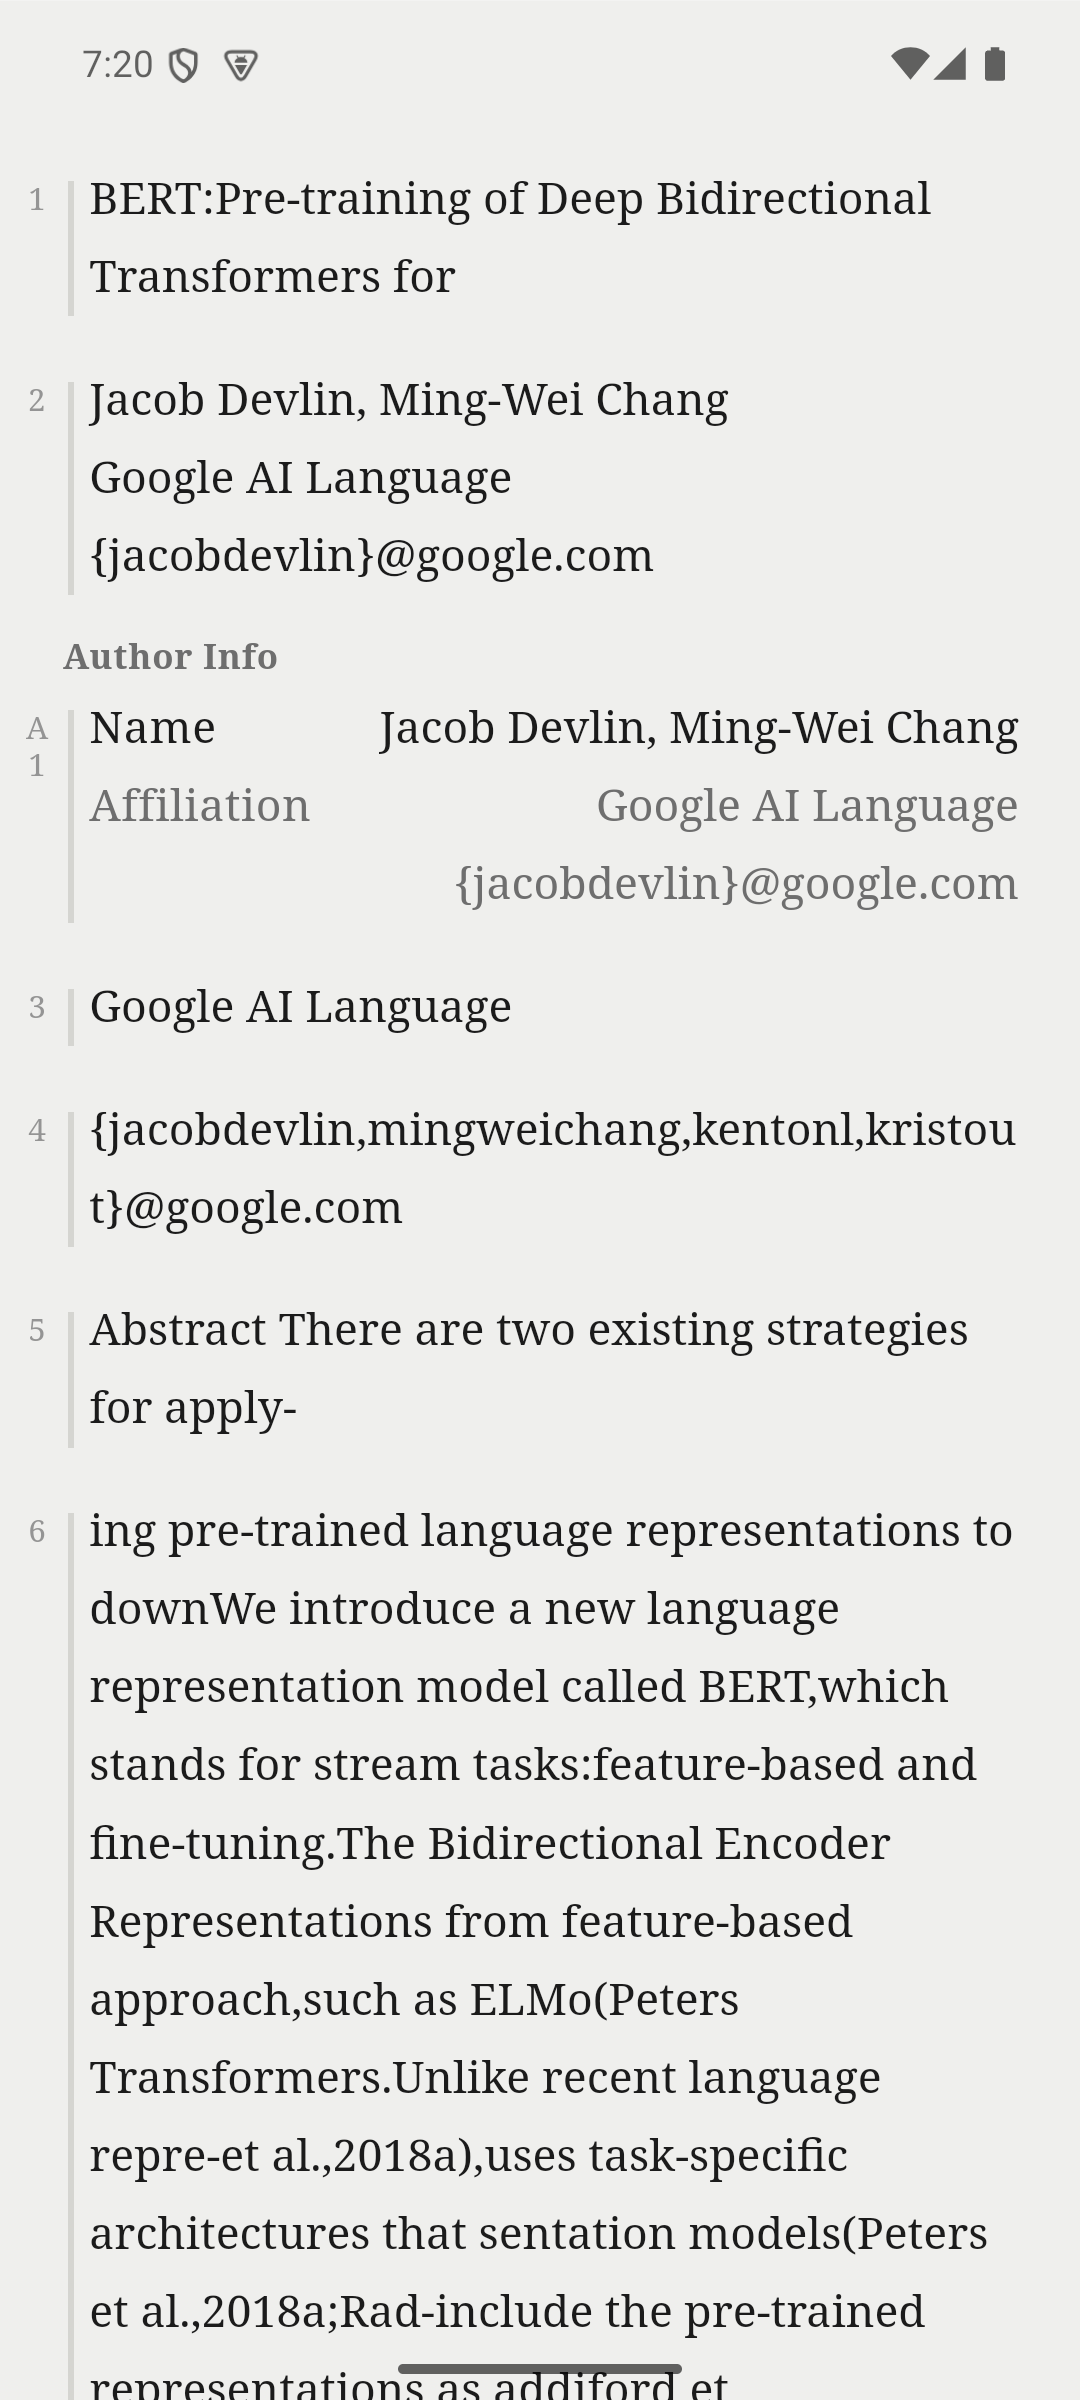
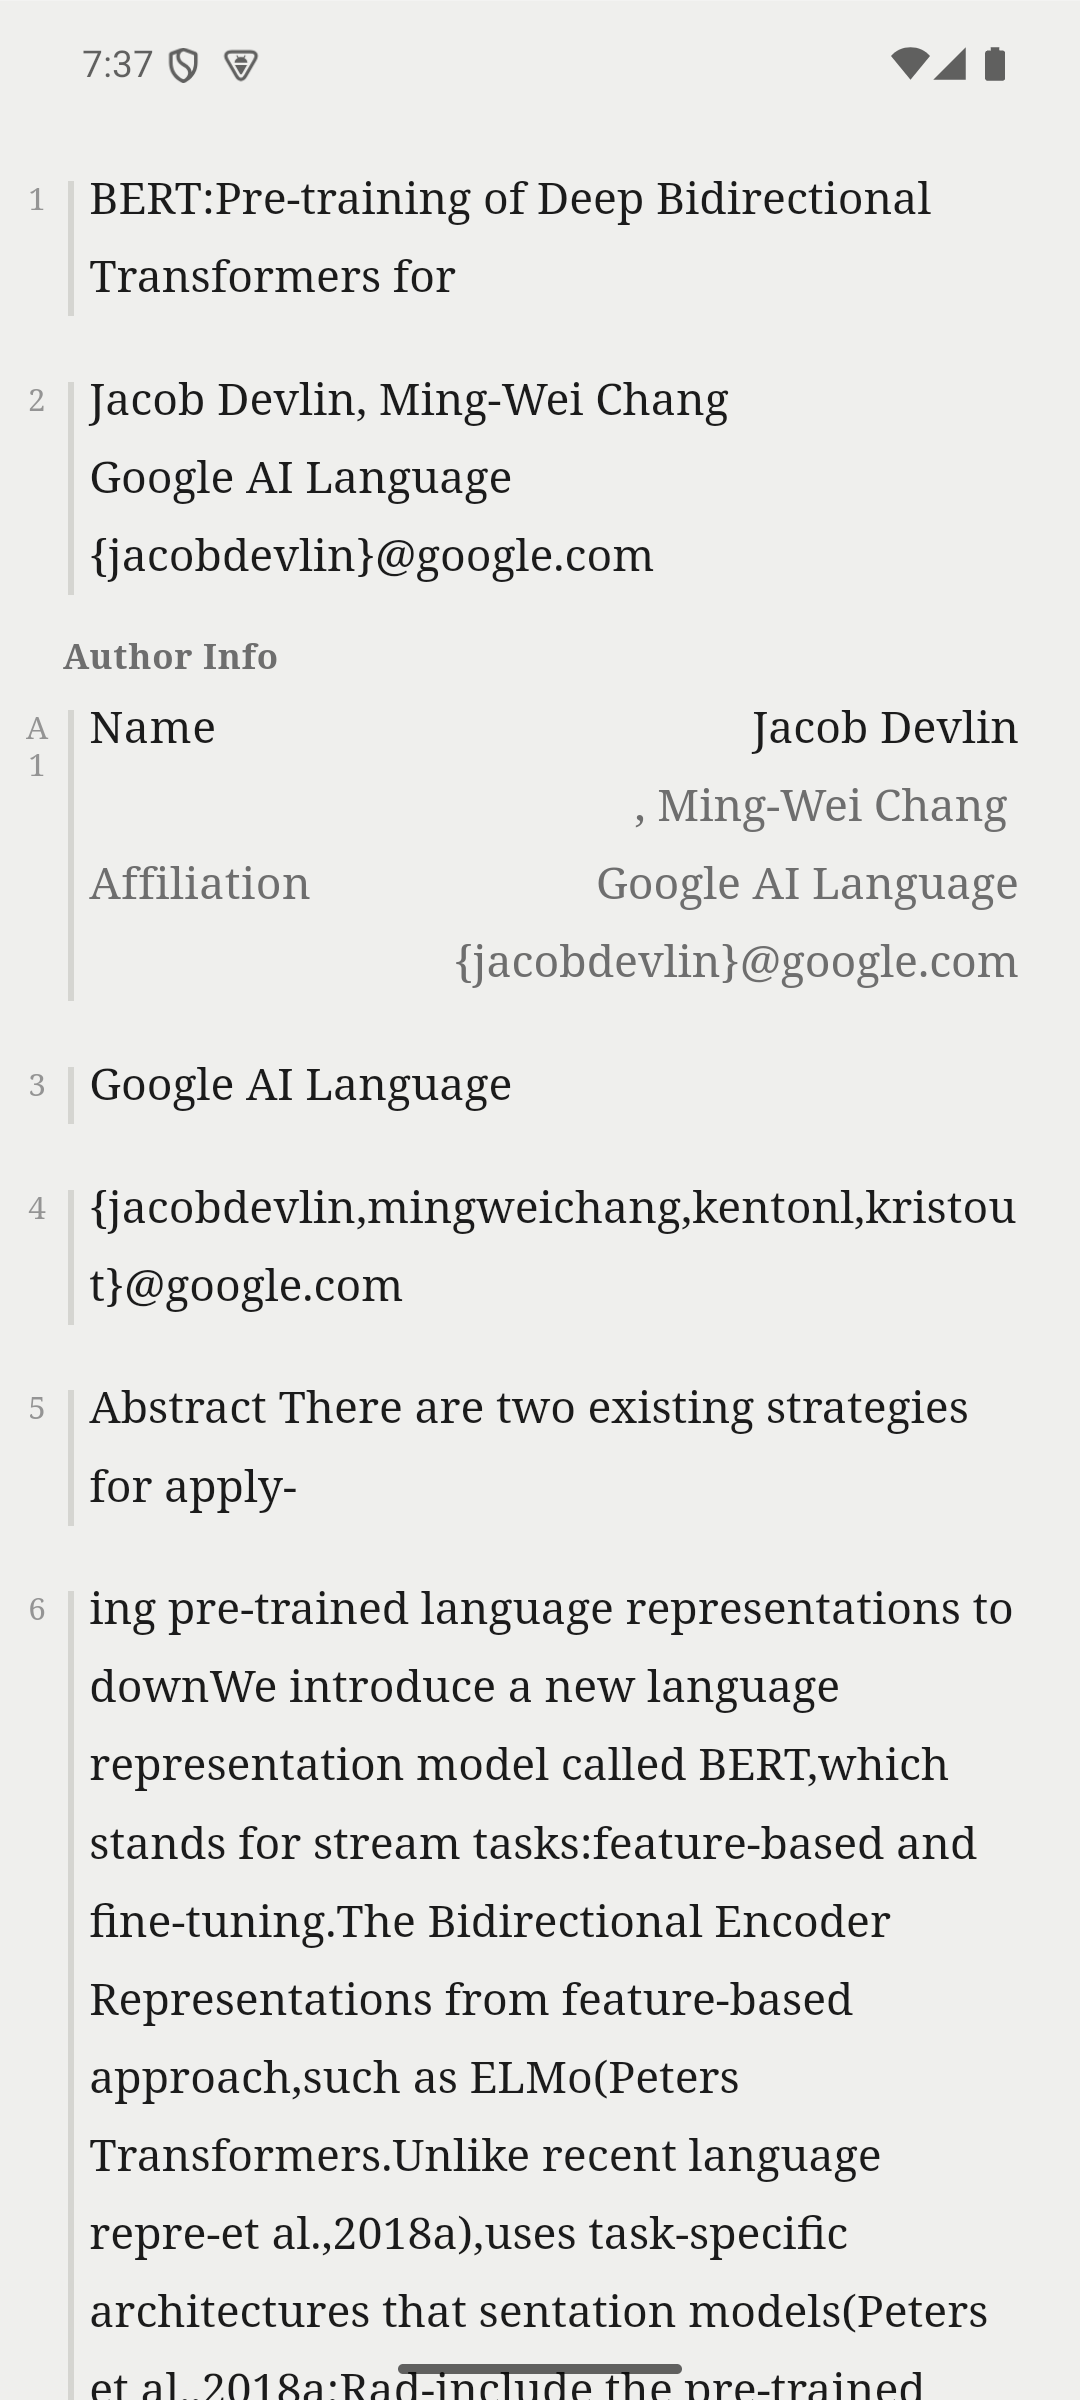
fix: skip UI text in block offsets so 2nd sub-label works; make labels unselectable (v0.1.89)

diff --git a/app/src/main/assets/www/reader.js b/app/src/main/assets/www/reader.js
@@ -2073,9 +2073,7 @@
         }
         if (!segs.length) return null;
 
-        /*
-          ③ 累加：从该块第一段开始，到目标节点之前的所有正文文字。
-        */
+        /* ③ 累加：从该块第一段开始，到目标节点之前的所有正文文字。 */
         var total = 0;
 
         for (var s = 0; s < segs.length; s++) {
@@ -2098,7 +2096,7 @@
                     var r = document.createRange();
                     r.setStart(p, 0);
                     r.setEnd(node, 0);
-                    total += String(r).length;
+                    total += textLenOf(r);
                 } catch (e) {
                     /* 兜底：按纯文本长度算到段首 */
                     total += 0;
@@ -2106,10 +2104,108 @@
                 return { line: line, offset: total };
             }
 
-            total += (p.textContent || '').length;
+            total += textLenOf(p);
         }
 
         return null;
+    }
+
+    /**
+     * 求一个节点（或 Range）里**属于原文**的字符数。
+     *
+     * ══ ⚠⚠ 为什么不能用 `textContent.length`（v0.1.89）══
+     *
+     * 用户反馈（原话）：
+     *   「第一个切的很好办，第二个呢？假如第一行选中的文本已经有了子标签，
+     *     当给第二行的选中文本进行标签时就会出错。」
+     *
+     * 作者信息区域的一行长这样：
+     *
+     *     <span class="reader-author-line">
+     *       <span class="reader-author-field">Name</span>      ← 界面文字
+     *       <span class="reader-author-value">Jacob Devlin</span>
+     *     </span>
+     *
+     * `textContent` = `"NameJacob Devlin"` —— **多出 `"Name"` 5 个字符**。
+     *
+     * ⚠ 后果链：
+     *   ① 偏移累加时多算；
+     *   ② 第二次标注算出的 `[wa, wb)` 落在原文的**错误位置**；
+     *   ③ 于是要么切错、"要么把第一条词条的区间覆盖掉"。
+     *   第一次标注时前面还没有词条，偏移没被污染，所以"第一次总是好的"。
+     *
+     * ✅ 正确做法：跳过 `.reader-author-field`（项名）和
+     *    `.reader-rule`（竖线）这类**非原文**元素，只数正文文字。
+     *
+     * ⚠ 用 `Range` 求长度而不是 `textContent`，是为了让"到某个节点为止"
+     *    这种部分取值也走同一套规则。
+     */
+    function textLenOf(nodeOrRange) {
+        /* Range：先转成片段再数 */
+        if (nodeOrRange && typeof nodeOrRange.cloneContents === 'function') {
+            return textLenOf(nodeOrRange.cloneContents());
+        }
+        var root = nodeOrRange;
+        if (!root) return 0;
+
+        function walk(n) {
+            if (!n) return 0;
+            if (n.nodeType === 3) {
+                return isNonContentNode(n) ? 0 : (n.nodeValue ? n.nodeValue.length : 0);
+            }
+            if (n.nodeType !== 1 && n.nodeType !== 11) return 0;
+
+            var sum = 0;
+            for (var c = n.firstChild; c; c = c.nextSibling) sum += walk(c);
+            return sum;
+        }
+
+        return walk(root);
+    }
+
+    /**
+     * 这个节点（或其祖先）是不是**界面元素** —— 不属于原文。
+     *
+     * ══ ⚠⚠ 唯一判据来源（v0.1.89）══
+     *
+     * 用户反馈（原话）：
+     *   「假如第一行选中的文本已经有了子标签，
+     *     当给第二行的选中文本进行标签时就会出错。」
+     *
+     * 作者信息区域的行是「项名 + 原文」并排：
+     *
+     *     <span class="reader-author-line">
+     *       <span class="reader-author-field">Name</span>      ← 界面
+     *       <span class="reader-author-value">Jacob Devlin</span> ← 原文
+     *     </span>
+     *
+     * `textContent` 会把 `Name` 一起算进去 → 字符偏移整体偏大 →
+     * 第二次标注的区间落到错位置。**第一行标完就有了项名**，
+     * 所以"第一次总是对、第二次就错"。
+     *
+     * ✅ 必须跳过：
+     *      · `.reader-author-field`  作者项名（Name / Affiliation …）
+     *      · `.reader-rule`          左侧竖线占位
+     *      · `.reader-label-head`    区域标题（「作者信息」）
+     *
+     * ⚠ 任何"给 DOM 加界面文字"的地方，都要同步加到这张表里，
+     *    否则偏移就会错。`textLenOf` 与 `offsetWithin` 共用它，
+     *    保证两处规则永远一致。
+     */
+    function isNonContentNode(n) {
+        if (!n) return false;
+        var el = (n.nodeType === 1) ? n : n.parentNode;
+        while (el && el !== contentEl) {
+            if (el.classList) {
+                if (el.classList.contains('reader-author-field') ||
+                    el.classList.contains('reader-rule') ||
+                    el.classList.contains('reader-label-head')) {
+                    return true;
+                }
+            }
+            el = el.parentNode;
+        }
+        return false;
     }
 
 
@@ -2192,7 +2288,7 @@
                 inRange = false;
             }
 
-            if (inRange && !isInsideLabelTag(cur, root)) {
+            if (inRange && !isInsideLabelTag(cur, root) && !isNonContentNode(cur)) {
                 /* 截出 Range 与该文本节点实际重叠的那一段 */
                 var value = cur.nodeValue || '';
                 var start = 0;
@@ -2469,7 +2565,28 @@
                 break;
             }
 
-            if (!isInsideLabelTag(cur, el)) {
+            /*
+              ══ ⚠⚠ 必须跳过**所有非原文**的文本（v0.1.89）══
+
+              用户反馈：
+                「第二个呢？假如第一行选中的文本已经有了子标签，
+                  当给第二行的选中文本进行标签时就会出错。」
+
+              作者信息区域的行里有两类文字：
+
+                <span class="reader-author-line">
+                  <span class="reader-author-field">Name</span>     ← 界面文字
+                  <span class="reader-author-value">Jacob…</span>   ← 原文
+                </span>
+
+              ⚠ 旧实现只跳过 `isInsideLabelTag`（区域标题），
+                 于是项名 `Name` 被算进偏移 → 后续每一行的起点都偏移，
+                 标注区间落到错位置，甚至覆盖掉已有的词条。
+
+              ✅ 统一交给 `isNonContentNode` 判断，
+                 与 `textLenOf()` 用**同一套规则**。
+            */
+            if (!isInsideLabelTag(cur, el) && !isNonContentNode(cur)) {
                 total += cur.nodeValue ? cur.nodeValue.length : 0;
             }
 

diff --git a/app/src/main/assets/www/styles.css b/app/src/main/assets/www/styles.css
@@ -2039,6 +2039,30 @@ body {
     */
     white-space: nowrap;
     /*
+      ══ ⚠⚠ 项名不可选中（v0.1.89）══
+
+      用户要求：
+        「同时，标识文本应该不可选中」
+
+      ⚠ 项名（Name / Affiliation / Email …）是**界面文字**，不是原文。
+         用户选中一段文字去标注/编辑时，不该把项名一起框进去：
+
+           · 框选会带上 "Name"，看起来选到了奇怪的东西；
+           · 即使 `selectedTextExact()` 会过滤，
+             原生选择器仍会把它们高亮出来，视觉上很乱；
+           · 复制时会把项名一起复制走（`Range.toString()` 不看 CSS）。
+
+      ✅ 双保险：
+         ① CSS 这里禁止选中（阻止原生选择器高亮）；
+         ② JS 侧 `selectedTextExact()` / `nodeOriginInBlock()` /
+            `offsetWithin()` 都经 `isNonContentNode()` **按节点过滤** ——
+            Android WebView 并不完全遵守 `user-select: none`，
+            长按拖动时仍会把它们框进 Range，所以 JS 过滤是必需的。
+    */
+    -webkit-user-select: none;
+    user-select: none;
+    pointer-events: none;
+    /*
       ⚠ 与右列一起垂直居中（见 `.reader-author-line` 的 `stretch` 说明）。
     */
     display: flex;
